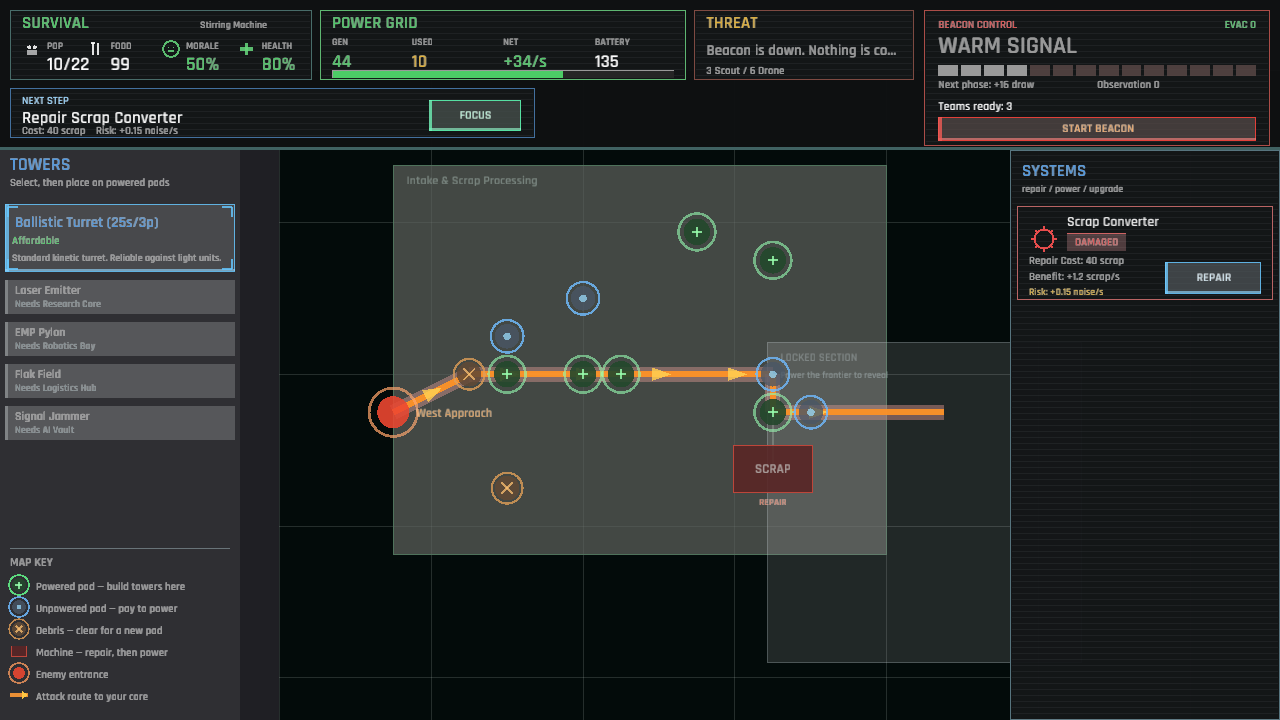
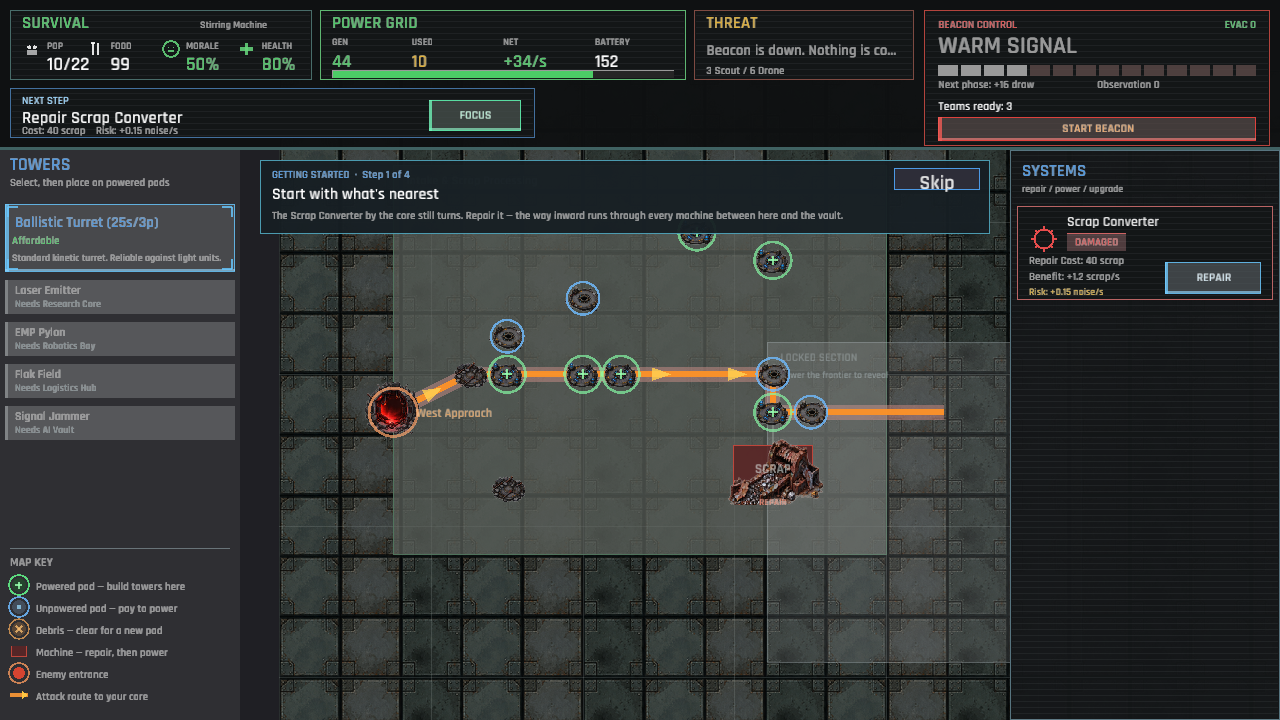
The dead factory gains a readable skin of steel and salvage (tile-map assets and gameplay rendering)
The map still presented geometric circles and flat plates even though the requirements called for a ruined factory with repair states, machine silhouettes, tower progression, and enemy identities. Generate the 19 required PNG sheets, normalize them to their production dimensions, embed them with nearest-neighbour filtering, and select frames from the live building, tower, breach, core, and enemy state. The 8x8 tile atlas now supplies the floor base while code-owned overlays remain responsible for selection, route arrows, labels, and health bars.\n\nVerified with cargo check, the project publish script for Windows and WebGL, and fresh menu/gameplay capture review. The existing test binary has 17 passing tests and 6 macroquad-thread initialization failures in pre-existing UI-advice/simulation tests.

diff --git a/src/state/gameplay/render_map/circuit_board.rs b/src/state/gameplay/render_map/circuit_board.rs
@@ -10,6 +10,7 @@ use macroquad_toolkit::ui::{draw_ui_text, measure_ui_text};
 
 use super::super::helpers::entrance_label;
 use super::super::GameplayState;
+use super::super::assets::{draw_frame, machine_index};
 use super::draw_label_tag;
 
 impl GameplayState {
@@ -17,7 +18,22 @@ impl GameplayState {
         let map_w = self.map_state.map_size.x;
         let map_h = self.map_state.map_size.y;
 
-        draw_rectangle(0.0, 0.0, map_w, map_h, Color::new(0.015, 0.045, 0.04, 1.0));
+        for y in (0..map_h as i32).step_by(64) {
+            for x in (0..map_w as i32).step_by(64) {
+                let variant = ((x / 64 + y / 64 * 3) % 3) as f32;
+                draw_texture_ex(
+                    &self.assets.tiles,
+                    x as f32,
+                    y as f32,
+                    WHITE,
+                    DrawTextureParams {
+                        dest_size: Some(vec2(64.0, 64.0)),
+                        source: Some(Rect::new(variant * 64.0, 0.0, 64.0, 64.0)),
+                        ..Default::default()
+                    },
+                );
+            }
+        }
         for x in (0..map_w as i32).step_by(160) {
             draw_line(
                 x as f32,
@@ -292,7 +308,7 @@ impl GameplayState {
             let e = path.entrance;
             if path.active {
                 let pulse = pulse_range(4.0, 0.55, 0.85);
-                draw_circle(e.x, e.y, 17.0, Color::new(0.92, 0.18, 0.08, 0.88));
+                draw_frame(&self.assets.breaches, 1, vec2(96.0, 96.0), e, vec2(64.0, 64.0), WHITE);
                 draw_circle_lines(e.x, e.y, 24.0, 3.0, Color::new(1.0, 0.46, 0.12, pulse));
                 draw_ui_text(
                     entrance_label(&path.id),
@@ -304,7 +320,7 @@ impl GameplayState {
             } else {
                 // Only drawn while the player is inspecting the pad/machine
                 // that would open this route — a warning preview.
-                draw_circle(e.x, e.y, 10.0, Color::new(0.45, 0.08, 0.08, 0.42));
+                draw_frame(&self.assets.breaches, 0, vec2(96.0, 96.0), e, vec2(52.0, 52.0), WHITE);
                 draw_circle_lines(e.x, e.y, 16.0, 2.0, Color::new(0.85, 0.24, 0.14, 0.44));
                 // Entrances can sit on the map's edge (e.g. the northwest
                 // breach at the top border); clamp the tag inward so it isn't
@@ -333,6 +349,7 @@ impl GameplayState {
             let hovered = hovered_slot == Some(idx);
             let pad = slot.position;
             draw_slot_pad(
+                &self.assets.pads,
                 pad,
                 slot.state,
                 slot.opens_entrance.is_some(),
@@ -382,6 +399,21 @@ impl GameplayState {
                 h,
                 2.0,
                 border_color,
+            );
+
+            let frame = match building.state {
+                BuildingState::Broken | BuildingState::Disabled => 0,
+                BuildingState::Repaired => 1,
+                BuildingState::Powered => 2,
+            };
+            let sprite_size = if is_core { vec2(108.0, 76.0) } else { vec2(76.0, 58.0) };
+            draw_frame(
+                &self.assets.machines[machine_index(&building.building_type)],
+                frame,
+                vec2(128.0, 96.0),
+                building.position,
+                sprite_size,
+                if unlocked { WHITE } else { Color::new(0.45, 0.5, 0.52, 0.55) },
             );
 
             let text_col = if selected || hovered {
@@ -445,9 +477,14 @@ impl GameplayState {
 
     pub(super) fn draw_factory_core(&self) {
         let core = self.map_state.factory_core;
-        let pulse = pulse_range(3.0, 0.6, 1.0);
-        draw_circle(core.x, core.y, 20.0, Color::new(0.1, 0.5, 0.2, pulse));
-        draw_circle_lines(core.x, core.y, 22.0, 2.0, Color::new(0.3, 0.9, 0.4, 0.8));
+        draw_frame(
+            &self.assets.core,
+            if self.map_state.buildings.iter().any(|b| b.state == BuildingState::Powered) { 2 } else { 0 },
+            vec2(128.0, 128.0),
+            core,
+            vec2(132.0, 104.0),
+            WHITE,
+        );
         draw_ui_text(
             &text().map.factory,
             core.x - 25.0,
@@ -496,44 +533,28 @@ fn building_visual(unlocked: bool, state: BuildingState) -> (Color, Color, &'sta
     }
 }
 
-fn draw_slot_pad(pad: Vec2, state: SlotState, opens_entrance: bool, has_tower: bool) {
+fn draw_slot_pad(texture: &Texture2D, pad: Vec2, state: SlotState, opens_entrance: bool, has_tower: bool) {
+    let frame = match state {
+        SlotState::Debris => 0,
+        SlotState::Cleared => 1,
+        SlotState::Powered if has_tower => 3,
+        SlotState::Powered => 2,
+    };
+    draw_frame(texture, frame, vec2(64.0, 64.0), pad, vec2(38.0, 38.0), WHITE);
     match state {
         SlotState::Debris => {
-            draw_circle(pad.x, pad.y, 13.0, Color::new(0.28, 0.17, 0.08, 0.86));
-            draw_circle_lines(pad.x, pad.y, 15.0, 2.4, Color::new(0.85, 0.52, 0.16, 0.78));
-            let s = 6.0;
-            draw_line(
-                pad.x - s,
-                pad.y - s,
-                pad.x + s,
-                pad.y + s,
-                2.0,
-                Color::new(1.0, 0.66, 0.2, 0.68),
-            );
-            draw_line(
-                pad.x + s,
-                pad.y - s,
-                pad.x - s,
-                pad.y + s,
-                2.0,
-                Color::new(1.0, 0.66, 0.2, 0.68),
-            );
             if opens_entrance {
                 draw_circle_lines(pad.x, pad.y, 18.0, 2.0, Color::new(1.0, 0.76, 0.18, 0.62));
             }
         }
         SlotState::Cleared => {
-            draw_circle(pad.x, pad.y, 13.0, Color::new(0.05, 0.12, 0.2, 0.75));
             draw_circle_lines(pad.x, pad.y, 16.0, 2.4, Color::new(0.32, 0.68, 1.0, 0.82));
-            draw_circle(pad.x, pad.y, 4.0, Color::new(0.45, 0.82, 1.0, 0.7));
         }
         SlotState::Powered => {
             if has_tower {
-                draw_circle(pad.x, pad.y, 14.0, Color::new(0.04, 0.18, 0.09, 0.62));
                 draw_circle_lines(pad.x, pad.y, 17.0, 2.0, Color::new(0.24, 0.92, 0.45, 0.55));
             } else {
                 let pulse = pulse_range(2.0, 0.5, 0.8);
-                draw_circle(pad.x, pad.y, 14.0, Color::new(0.04, 0.2, 0.08, 0.9));
                 draw_circle_lines(pad.x, pad.y, 18.0, 2.8, Color::new(0.25, 1.0, 0.45, pulse));
                 draw_line(
                     pad.x - 5.0,

diff --git a/src/state/gameplay/render_map.rs b/src/state/gameplay/render_map.rs
@@ -8,6 +8,7 @@ use macroquad_toolkit::colors::dark;
 use macroquad_toolkit::ui::{draw_ui_text, measure_ui_text};
 
 use super::GameplayState;
+use super::assets::draw_frame;
 
 mod circuit_board;
 
@@ -39,9 +40,25 @@ impl GameplayState {
             let outline_alpha = if tower.is_active { 1.0 } else { 0.4 };
             let radius = self.constants.ui.tower_base_radius
                 + (tower.level.saturating_sub(1) as f32) * self.constants.ui.tower_level_radius_inc;
-            draw_circle(tower.position.x, tower.position.y, radius, col);
+            let column = match tower.tower_type {
+                crate::data::TowerType::Ballistic => 0,
+                crate::data::TowerType::Laser => 1,
+                crate::data::TowerType::Emp => 2,
+                crate::data::TowerType::AreaDenial => 3,
+                crate::data::TowerType::Subversion => 4,
+            };
+            let level = tower.level.saturating_sub(1).min(2) as usize;
+            let frame = level * 5 + column;
+            draw_frame(
+                &self.assets.towers,
+                frame,
+                vec2(64.0, 64.0),
+                tower.position,
+                vec2(radius * 3.0, radius * 3.0),
+                col,
+            );
             let outline = Color::new(dark::TEXT.r, dark::TEXT.g, dark::TEXT.b, outline_alpha);
-            draw_circle_lines(tower.position.x, tower.position.y, radius, 2.0, outline);
+            draw_circle_lines(tower.position.x, tower.position.y, radius, 1.5, outline);
 
             if tower.level > 1 {
                 let ring_radius = radius + self.constants.ui.tower_ring_offset;
@@ -116,12 +133,12 @@ impl GameplayState {
                 continue;
             }
 
-            let (radius, color) = match enemy.enemy_type {
-                EnemyType::Scout => (5.0, Color::new(0.4, 0.9, 0.4, 1.0)),
-                EnemyType::Drone => (7.0, Color::new(0.9, 0.5, 0.2, 1.0)),
-                EnemyType::HeavyUnit => (10.0, Color::new(0.8, 0.2, 0.2, 1.0)),
-                EnemyType::Saboteur => (6.0, Color::new(0.7, 0.3, 0.9, 1.0)),
-                EnemyType::Commander => (14.0, Color::new(1.0, 0.8, 0.0, 1.0)),
+            let (asset, radius, color, frame_size, sprite_size) = match enemy.enemy_type {
+                EnemyType::Scout => (0, 5.0, Color::new(0.4, 0.9, 0.4, 1.0), vec2(48.0, 48.0), vec2(38.0, 38.0)),
+                EnemyType::Drone => (1, 7.0, Color::new(0.9, 0.5, 0.2, 1.0), vec2(48.0, 48.0), vec2(42.0, 42.0)),
+                EnemyType::HeavyUnit => (2, 10.0, Color::new(0.8, 0.2, 0.2, 1.0), vec2(64.0, 64.0), vec2(56.0, 56.0)),
+                EnemyType::Saboteur => (3, 6.0, Color::new(0.7, 0.3, 0.9, 1.0), vec2(48.0, 48.0), vec2(38.0, 38.0)),
+                EnemyType::Commander => (4, 14.0, Color::new(1.0, 0.8, 0.0, 1.0), vec2(64.0, 64.0), vec2(58.0, 58.0)),
             };
 
             let mut col = color;
@@ -130,7 +147,8 @@ impl GameplayState {
             } else if enemy.dodge_timer > 0.0 {
                 col = Color::new(color.r, color.g, color.b, 0.4);
             }
-            draw_circle(enemy.position.x, enemy.position.y, radius, col);
+            let frame = ((get_time() * 8.0) as usize) % 4;
+            draw_frame(&self.assets.enemies[asset], frame, frame_size, enemy.position, sprite_size, col);
 
             let bar_w = radius * 3.0;
             let bar_h = 3.0;

diff --git a/src/state/gameplay/assets.rs b/src/state/gameplay/assets.rs
@@ -1,0 +1,80 @@
+//! Embedded gameplay art with nearest-neighbour sampling.
+
+use macroquad::prelude::*;
+
+pub struct GameplayAssets {
+    pub tiles: Texture2D,
+    pub pads: Texture2D,
+    pub breaches: Texture2D,
+    pub core: Texture2D,
+    pub towers: Texture2D,
+    pub enemies: [Texture2D; 5],
+    pub machines: [Texture2D; 9],
+}
+
+fn texture(bytes: &[u8]) -> Texture2D {
+    let image = Image::from_file_with_format(bytes, Some(ImageFormat::Png))
+        .expect("embedded gameplay texture must be valid PNG");
+    let texture = Texture2D::from_image(&image);
+    texture.set_filter(FilterMode::Nearest);
+    texture
+}
+
+impl GameplayAssets {
+    pub fn load() -> Self {
+        Self {
+            tiles: texture(include_bytes!("../../../assets/map/factory_tiles.png")),
+            pads: texture(include_bytes!("../../../assets/map/tower_pads.png")),
+            breaches: texture(include_bytes!("../../../assets/map/breach_markers.png")),
+            core: texture(include_bytes!("../../../assets/buildings/factory_core.png")),
+            towers: texture(include_bytes!("../../../assets/towers/towers.png")),
+            enemies: [
+                texture(include_bytes!("../../../assets/enemies/scout_drone.png")),
+                texture(include_bytes!("../../../assets/enemies/assault_drone.png")),
+                texture(include_bytes!("../../../assets/enemies/siege_walker.png")),
+                texture(include_bytes!("../../../assets/enemies/infiltrator.png")),
+                texture(include_bytes!("../../../assets/enemies/command_node.png")),
+            ],
+            machines: [
+                texture(include_bytes!("../../../assets/buildings/scrap_converter.png")),
+                texture(include_bytes!("../../../assets/buildings/water_reclaimer.png")),
+                texture(include_bytes!("../../../assets/buildings/nutrient_vats.png")),
+                texture(include_bytes!("../../../assets/buildings/power_turbine.png")),
+                texture(include_bytes!("../../../assets/buildings/power_distribution_spine.png")),
+                texture(include_bytes!("../../../assets/buildings/assembly_hall_core.png")),
+                texture(include_bytes!("../../../assets/buildings/logistics_hub_core.png")),
+                texture(include_bytes!("../../../assets/buildings/robotics_bay_core.png")),
+                texture(include_bytes!("../../../assets/buildings/research_core.png")),
+            ],
+        }
+    }
+}
+
+pub fn draw_frame(texture: &Texture2D, frame: usize, frame_size: Vec2, center: Vec2, size: Vec2, tint: Color) {
+    draw_texture_ex(
+        texture,
+        center.x - size.x * 0.5,
+        center.y - size.y * 0.5,
+        tint,
+        DrawTextureParams {
+            dest_size: Some(size),
+            source: Some(Rect::new(frame as f32 * frame_size.x, 0.0, frame_size.x, frame_size.y)),
+            ..Default::default()
+        },
+    );
+}
+
+pub fn machine_index(kind: &str) -> usize {
+    match kind {
+        "scrap_converter" => 0,
+        "water_reclaimer" => 1,
+        "nutrient_vats" => 2,
+        "power_turbine" => 3,
+        "power_distribution_spine" => 4,
+        "assembly_hall_core" => 5,
+        "logistics_hub_core" => 6,
+        "robotics_bay_core" => 7,
+        "research_core" => 8,
+        _ => 0,
+    }
+}

diff --git a/src/state/gameplay/mod.rs b/src/state/gameplay/mod.rs
@@ -1,6 +1,7 @@
 //! Core gameplay state: wave defense, factory management, resource loop.
 
 mod helpers;
+mod assets;
 mod render;
 mod render_hud;
 mod render_map;
@@ -24,8 +25,10 @@ use crate::save::{
 };
 use macroquad::prelude::{vec2, Vec2};
 use macroquad_toolkit::camera::{Camera2D as ToolkitCamera2D, Camera2DConfig, CameraBounds};
+use assets::GameplayAssets;
 
 pub struct GameplayState {
+    pub assets: GameplayAssets,
     pub constants: GameConstants,
     pub factory: Factory,
     pub wave_manager: WaveManager,
@@ -224,6 +227,7 @@ impl GameplayState {
         let autosave_enabled = settings.autosave;
 
         Self {
+            assets: GameplayAssets::load(),
             constants,
             factory,
             wave_manager: WaveManager::new(WaveTuning {
